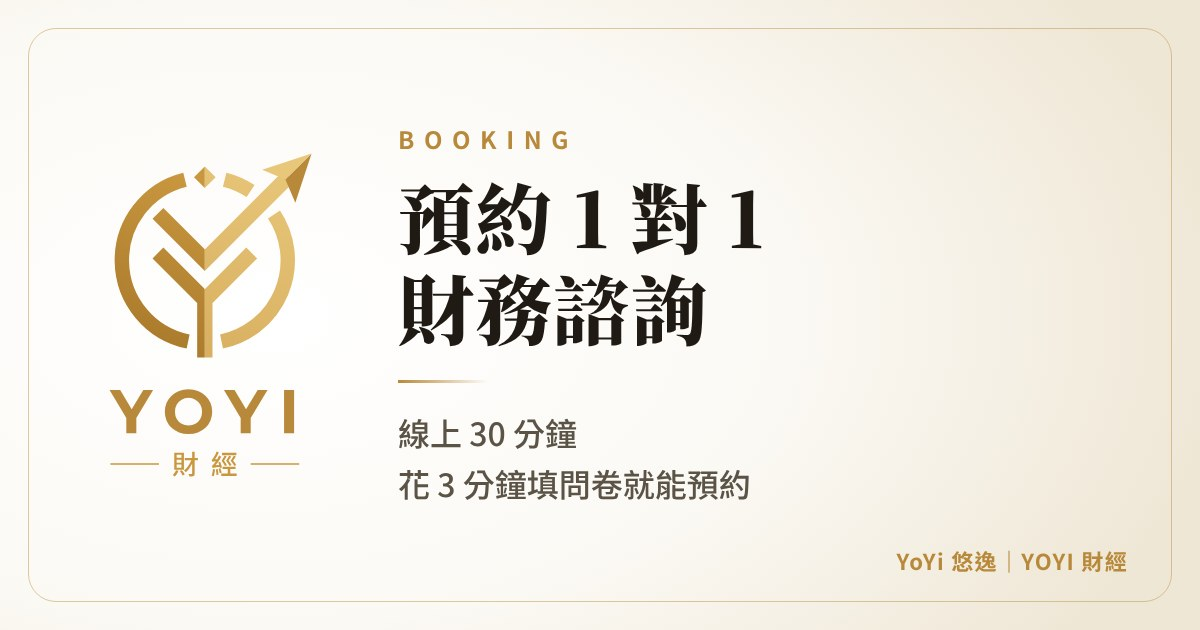
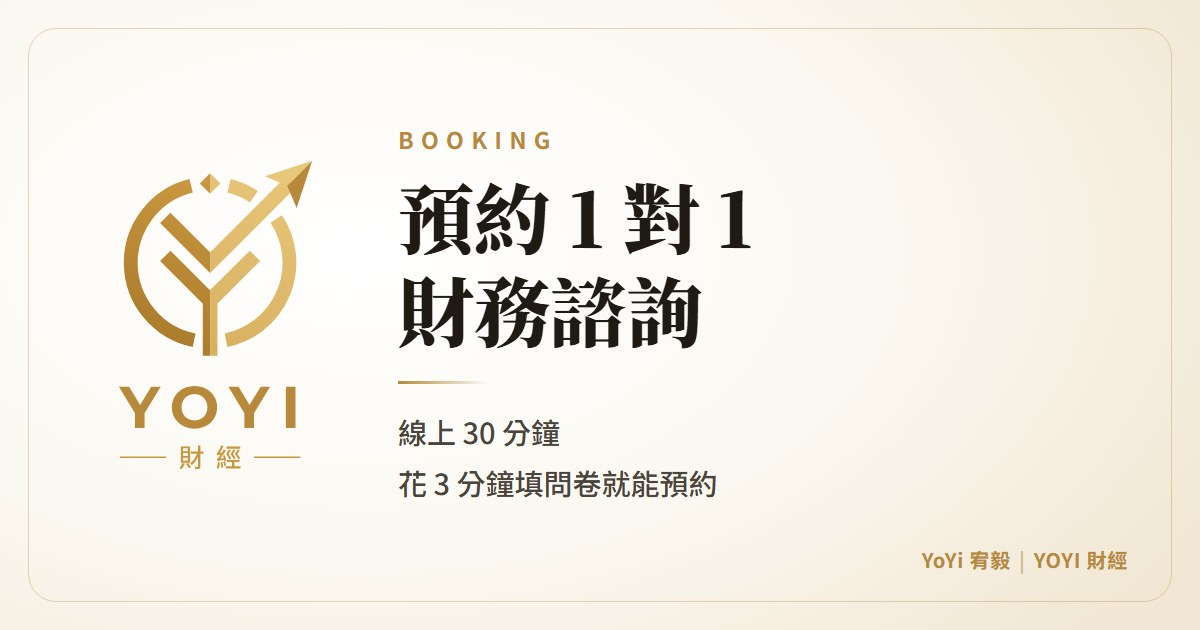
分享預覽圖改成 YoYi 宥毅（5 張重做），og:image 加版本號讓 LINE 重抓

diff --git a/index.html b/index.html
@@ -7,7 +7,7 @@
 <meta name="description" content="YoYi 宥毅｜YOYI 財經：每天一則財經新聞白話看懂，台股・美股・全球經濟。今日市場數字、理財試算，加入 LINE 社群或預約 1 對 1 財務諮詢。">
 <meta property="og:title" content="YoYi 宥毅｜YOYI 財經">
 <meta property="og:description" content="每天一則財經新聞，白話看懂。加入 YOYI 財經 LINE 社群。">
-<meta property="og:image" content="https://yoyifinance.github.io/images/og/og.jpg">
+<meta property="og:image" content="https://yoyifinance.github.io/images/og/og.jpg?v=20261104">
 <meta property="og:image:width" content="1200">
 <meta property="og:image:height" content="630">
 <meta property="og:url" content="https://yoyifinance.github.io/">

diff --git a/glossary.html b/glossary.html
@@ -7,7 +7,7 @@
 <meta name="description" content="YOYI 財經名詞小教室：ADR、外資賣超、本益比、殖利率倒掛…看不懂的財經名詞，搜尋一下，用生活比喻白話看懂。">
 <meta property="og:title" content="財經名詞小教室｜YOYI 財經">
 <meta property="og:description" content="看不懂的財經名詞，搜尋一下，白話看懂。">
-<meta property="og:image" content="https://yoyifinance.github.io/images/og/og.jpg">
+<meta property="og:image" content="https://yoyifinance.github.io/images/og/og.jpg?v=20261104">
 <meta property="og:url" content="https://yoyifinance.github.io/glossary.html">
 <meta property="og:type" content="website">
 <meta property="og:site_name" content="YOYI 財經">

diff --git a/about.html b/about.html
@@ -7,7 +7,7 @@
 <meta name="description" content="YoYi 宥毅｜財富導航者。6 年金融業經驗、5,000 萬資產管理實績。理財不是為了衝，是為了生活不落空。">
 <meta property="og:title" content="認識 YoYi｜YOYI 財經">
 <meta property="og:description" content="理財不是為了衝，是為了生活不落空。">
-<meta property="og:image" content="https://yoyifinance.github.io/images/og/og-about.jpg">
+<meta property="og:image" content="https://yoyifinance.github.io/images/og/og-about.jpg?v=20261104">
 <meta property="og:image:width" content="1200">
 <meta property="og:image:height" content="630">
 <meta property="og:url" content="https://yoyifinance.github.io/about.html">

diff --git a/booking.html b/booking.html
@@ -7,7 +7,7 @@
 <meta name="description" content="預約 YoYi 1 對 1 線上財務諮詢。花 3 分鐘填寫問卷，我會盡快和你聯絡。">
 <meta property="og:title" content="預約 1 對 1 財務諮詢｜YOYI 財經">
 <meta property="og:description" content="線上 30 分鐘 1 對 1，花 3 分鐘填問卷就能預約。">
-<meta property="og:image" content="https://yoyifinance.github.io/images/og/og-booking.jpg">
+<meta property="og:image" content="https://yoyifinance.github.io/images/og/og-booking.jpg?v=20261104">
 <meta property="og:image:width" content="1200">
 <meta property="og:image:height" content="630">
 <meta property="og:url" content="https://yoyifinance.github.io/booking.html">

diff --git a/news.html b/news.html
@@ -7,7 +7,7 @@
 <meta name="description" content="YOYI 財經日報：今日台股、美股市場數字、產業溫度計，加上每天一則焦點新聞白話看懂。">
 <meta property="og:title" content="財經日報｜YOYI 財經">
 <meta property="og:description" content="今日市場數字＋每天一則焦點新聞。">
-<meta property="og:image" content="https://yoyifinance.github.io/images/og/og-news.jpg">
+<meta property="og:image" content="https://yoyifinance.github.io/images/og/og-news.jpg?v=20261104">
 <meta property="og:image:width" content="1200">
 <meta property="og:image:height" content="630">
 <meta property="og:url" content="https://yoyifinance.github.io/news.html">

diff --git a/calc.html b/calc.html
@@ -8,7 +8,7 @@
 <title>理財試算｜YoYi 宥毅・YOYI 財經</title>
 <meta property="og:title" content="理財試算｜YOYI 財經">
 <meta property="og:description" content="聰明養房、無痛買車，輸入你的數字，看資金放對位置的差別。">
-<meta property="og:image" content="https://yoyifinance.github.io/images/og/og-calc.jpg">
+<meta property="og:image" content="https://yoyifinance.github.io/images/og/og-calc.jpg?v=20261104">
 <meta property="og:image:width" content="1200">
 <meta property="og:image:height" content="630">
 <meta property="og:url" content="https://yoyifinance.github.io/calc.html">

diff --git a/CLAUDE.md b/CLAUDE.md
@@ -11,7 +11,7 @@
 - news.json：每日焦點新聞，由 yoyi-daily-finance 的排程寫入（規則在該 repo 的 排程提示詞_每日財經.md 第 7 節），每則可帶 cta。
 - market.json：GitHub Actions 每 10 分鐘寫到 data 分支。
 - analytics.js：GA4（G-7L1SJ24MTK）與事件追蹤（join_line、booking_click、ig_click、form_next、calc_use）。
-- 分享預覽圖在 images/og/，1200×630。
+- 分享預覽圖在 images/og/，1200×630，字是做在圖裡的（改名字、改標語要重做圖）。版型在本機 .preview/og.html（不進 git），用 Edge 無頭模式 `--window-size=1200,630 --screenshot` 截 ?k=home|about|booking|calc|news；換圖後把各頁 og:image 的 ?v= 改新日期，LINE／FB 才會重抓。
 - 預約問卷：yoyi-form.js 是官網樣式的 7 頁問卷，頁面放 `<div data-yoyi-form></div>` 就會出現（認識 YoYi、理財試算、n/ 筆記都已內嵌），資料直接 POST 到原本的 Google 問卷。Google 問卷改題目、選項文字時，yoyi-form.js 的 entry 代號和選項要一字不差同步改。booking.html、理財試算也都是這份問卷（試算頁提供 window.yoyiCalcText()，問卷翻到「網站試算結果」那頁時自動帶入），已不再用 Google iframe。
 - 名字：對外用「YoYi 宥毅」（2026-11-04 使用者同意用本名「宥毅」，取代原本的「悠逸」）；不放姓氏與其他個資。
 - 置頂橫條：topbar.css（LOGO＋「回到首頁」按鈕，sticky），各頁在自己的 <style> 之後載入；新頁面照做。首頁 index.html 不用。
